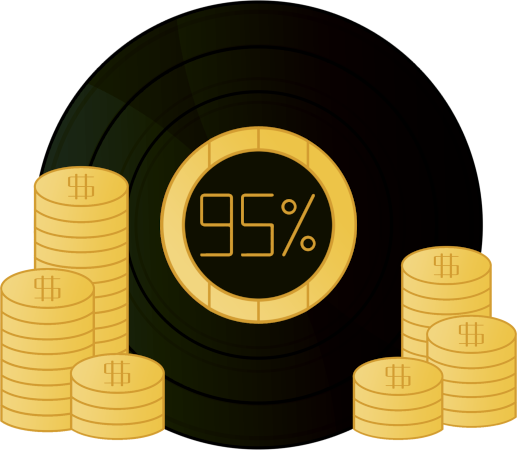
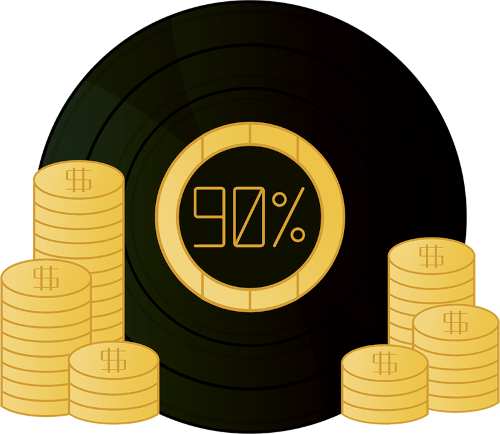
email popup

diff --git a/src/GetEmailModal.jsx b/src/GetEmailModal.jsx
@@ -1,0 +1,155 @@
+import React, { useEffect, useState } from "react";
+import axios from "axios";
+import styled from "styled-components";
+import { AccountProvider, useAccountConsumer } from "./contexts/Account";
+import { ReactComponent as XIcon } from "./assets/img/icons/x.svg";
+
+const GetEmailModal = () => {
+  const [open, setOpen] = useState(false);
+  const [email, setEmail] = useState("");
+  const [submitted, setSubmitted] = useState(false);
+  const [error, setError] = useState(false);
+  const { account, user } = useAccountConsumer();
+
+  useEffect(() => {
+    const storedEmail = localStorage.getItem('email');
+    if (!storedEmail) {
+      setOpen(true);
+    }
+    console.log("user", user, user?.email === "", storedEmail);
+    if (user && user?.email === "" && storedEmail) {
+      axios.post("/api/user/add-email", {email: storedEmail, address: user.address})
+      .then(() => {
+      })
+      .catch((err) => console.error(err));
+      //save email to user
+    }
+  }, [user, submitted])
+
+  const submitEmail = (e) => {
+    e.preventDefault()
+
+    let validEmail = /^(([^<>()\[\]\\.,;:\s@"]+(\.[^<>()\[\]\\.,;:\s@"]+)*)|(".+"))@((\[[0-9]{1,3}\.[0-9]{1,3}\.[0-9]{1,3}\.[0-9]{1,3}])|(([a-zA-Z\-0-9]+\.)+[a-zA-Z]{2,}))$/;
+    if (!validEmail.test(email)) {
+      setError(true);
+      return;
+    }
+    axios.post("/api/user/add-to-email-list", {email})
+    .then(() => {
+      setSubmitted(true);
+      localStorage.setItem('email', email);
+    })
+    .catch((err) => console.error(err));
+  }
+  
+  if (open) {
+    return (
+      <Modal>
+          <X onClick={() => setOpen(false)}/>
+        {!submitted && <Half>
+          Please add your email for an<br/>
+          opportunity for a <span style={{color: "#20A4FC", fontWeight: "600"}}>free NFT!</span>
+        </Half>}
+        <Half>
+          <form onSubmit={(e) => submitEmail(e)}>
+            {!submitted ? 
+          <Input
+            error={error}
+            name="email"
+            placeholder="email"
+            type="email"
+            onChange={(e) => setEmail(e.target.value)}
+          >
+          </Input>
+            : <Thanks>
+              Thank You!
+              </Thanks>
+          }
+          </form>
+        </Half>
+        {submitted && <Half>
+          We will be reaching out to<br/>
+          you <span style={{color: "#20A4FC", fontWeight: "600"}}>via email</span> soon.
+        </Half>}
+      </Modal>
+    );
+}
+  return null;
+}
+
+const Thanks = styled.div`
+  box-shadow: 0 3px 6px 0 rgba(0, 0, 0, 0.16);
+  background-image: linear-gradient(to right, #20a4fc, #fde404 35%, #68c12f 68%, #fa423e);
+  width: 254px;
+  height: 32px;
+  border-radius: 4px;
+  display: flex;
+  align-items: center;
+  justify-content: center;
+  color: black;
+  font-weight: 600;
+`
+
+const X = styled(XIcon)`
+  cursor: pointer;
+  width: 18px;
+  height: 18px;
+  & path {
+    fill: ${(props) => props.theme.color.white} !important;
+  }
+  position: absolute;
+  top: 0;
+  right: 0px;
+`;
+
+
+// const Exit = styled.div`
+// position: absolute;
+// top: 0;
+// right: 0;
+// width: 20px;
+// `
+
+const Input = styled.input`
+width: calc(100% - 8px);
+text-align: center;
+color: white;
+background-color: #131313;
+border: 1px solid ${props => props.error ? "red" : "transparent"} !important;
+height: 30px;
+font-size: 16px;
+border-radius: 4px;
+&:focus {
+outline: 1px solid ${props => props.error ? "transparent" : "white"} !important;
+
+}
+`
+
+const Half = styled.div`
+font-size: 16px;
+line-height: 22px;
+font-weight: 300;
+letter-spacing: .5px;
+`
+
+const Modal = styled.div`
+height: 86px;
+    width: 260px;
+display: flex;
+justify-content: space-between;
+flex-direction: column;
+position: fixed;
+text-align: center;
+/* height: 20px; */
+/* width: 200px; */
+padding: 16px;
+top: 80px;
+right: 40px;
+border: 1px solid  ${(props) => props.theme.color.boxBorder};
+background: ${props => props.theme.color.box};
+color: white;
+border-radius: 0 0 0 20px;
+z-index: 10000000;
+`
+
+export default GetEmailModal;

diff --git a/server/routes/user.router.js b/server/routes/user.router.js
@@ -2,6 +2,7 @@ const express = require("express");
 const router = express.Router();
 const multer = require("multer");
 const User = require("../schemas/User.schema");
+const EmailList = require("../schemas/EmailList.schema");
 const NftType = require("../schemas/NftType.schema");
 const Application = require("../schemas/Application.schema");
 const Redeem = require("../schemas/Redeem.schema");
@@ -63,6 +64,43 @@ router.post("/get-account", async (req, res) => {
     res.status(500).send("server error");
   }
 });
+
+router.post("/add-email", async (req, res) => {
+  try {
+    console.log("adding", req.body);
+    let user = await User.findOne({ address: req.body.address });
+    user.email = req.body.email;
+    await user.save();
+    res.status(200).send("success");
+    }catch (error) {
+      res.status(500).send("server error");
+    }
+
+  }
+)
+
+router.post("/add-to-email-list", async (req, res) => {
+  try {
+    let emailList = await EmailList.findOne();
+    if (!emailList) {
+      emailList = new EmailList({
+        emails: [],
+      });
+      await emailList.save();
+      console.log("success");
+      res.status(200).send("success");
+      return;
+    } else {
+      emailList.emails = [...emailList.emails, req.body.email];
+      emailList.save();
+      res.status(200).send("success");
+    }
+    }catch (error) {
+      res.status(500).send("server error");
+    }
+
+  }
+)
 
 router.post("/track-pageview", async (req, res) => {
   try {

diff --git a/src/views/Home/Components/Features.jsx b/src/views/Home/Components/Features.jsx
@@ -10,8 +10,6 @@ import carbon from "../../../assets/img/homepage_assets/homepage_carbon.png";
 import join from "../../../assets/img/homepage_assets/homepage_join.png";
 import airdrop from "../../../assets/img/homepage_assets/homepage_collect.png";
 import revenue from "../../../assets/img/homepage_assets/homepage_revenue.png";
-// import art from "../../../assets/img/homepage_assets/homepage_art.png"
-// import video from "../../../assets/img/homepage_assets/homepage_video.png"
 
 export const Features = ({ isLoaded, setIsLoaded }) => {
   useEffect(() => {
@@ -86,7 +84,7 @@ export const Features = ({ isLoaded, setIsLoaded }) => {
           <FeaturesHeader>Support Amazing Artists</FeaturesHeader>
           <FeaturesDescription>
             It’s no secret that traditional streaming services are not offering
-            fair compensation to artists. With us, musicians make 95% of their
+            fair compensation to artists. With us, musicians make 90% of their
             sales.
           </FeaturesDescription>
         </FeaturesTextContainer>

diff --git a/src/contexts/Account/Account.jsx b/src/contexts/Account/Account.jsx
@@ -40,6 +40,7 @@ export const AccountProvider = ({ children }) => {
   const [usdPerEth, setUsdPerEth] = useState(0);
   const [usdPerBnb, setUsdPerBnb] = useState(0);
   const [oneSecToLoadMetaMask, setOneSecToLoadMetaMask] = useState(false);
+  const [noEmail, setNoEmail] = useState(false);
 
   const fetchUsdPerEthandBsc = async () => {
     await axios
@@ -58,6 +59,10 @@ export const AccountProvider = ({ children }) => {
     await axios
       .post(`/api/user/get-account`, { address: account })
       .then((res) => {
+        console.log("HERE DA USER", res.data);
+        if (!res.data.email) {
+          setNoEmail(true);
+        }
         setUser(res.data);
         axios
           .post(`/api/gov/verify-admin`, { address: account })
@@ -132,6 +137,7 @@ export const AccountProvider = ({ children }) => {
         setCurrChainId,
         usdPerEth,
         usdPerBnb,
+        noEmail,
       }}
     >
       {/* {oneSecToLoadMetaMask && !currChainId && <NoChainModal />}

diff --git a/src/App.jsx b/src/App.jsx
@@ -32,6 +32,7 @@ import recordPlayer from "./assets/img/record_player.png";
 import recordPlayerSpin from "./assets/img/record_player_spin.png";
 import saQiBanner from "./assets/img/homepage_assets/saqi_banner.png";
 import saQiBannerMobile from "./assets/img/homepage_assets/saqi_banner_mobile.jpeg";
+import NoEmailModal from "./GetEmailModal";
 
 import isMobile from "./utils/isMobile";
 import theme from "./theme";
@@ -40,7 +41,7 @@ if (window.location.hostname !== "localhost") console.log = function () {};
 
 const Switches = () => {
   const location = useLocation();
-  const { account, user } = useAccountConsumer();
+  const { account, user, noEmail } = useAccountConsumer();
 
   useEffect(() => {
     axios
@@ -159,6 +160,7 @@ const App = () => {
       <StyledCanvas>
         <Router>
           <Switches />
+          <NoEmailModal/>
         </Router>
       </StyledCanvas>
     </Providers>

diff --git a/src/views/VINYL/Token/Components/Airdrops.jsx b/src/views/VINYL/Token/Components/Airdrops.jsx
@@ -9,8 +9,6 @@ import carbon from "../../../../assets/img/homepage_assets/homepage_carbon.png";
 
 import airdrop from "../../../../assets/img/homepage_assets/homepage_airdrop.png";
 import revenue from "../../../../assets/img/homepage_assets/homepage_revenue.png";
-// import art from "../../../../assets/img/homepage_assets/homepage_art.png"
-// import video from "../../../../assets/img/homepage_assets/homepage_video.png"
 
 const Airdrops = ({ isLoaded, setIsLoaded }) => {
   useEffect(() => {

diff --git a/src/views/Info/Info.jsx b/src/views/Info/Info.jsx
@@ -70,7 +70,7 @@ const Info = () => {
           <br />
           <span>
             NFT FM allows musicians to dictate artistically and financially the
-            terms on which they engage with their audience. 95% of sale revenue
+            terms on which they engage with their audience. 90% of sale revenue
             goes to the artist directly giving musicians much more of a chance
             to see the immediate results of their hard work.
           </span>

diff --git a/src/views/Home/Home.jsx b/src/views/Home/Home.jsx
@@ -33,7 +33,7 @@ const Listen = () => {
         <DemoImage />
         <StyledHeader>Are you an artist? Launch with us!</StyledHeader>
         <StyledAccountButton href="/register-artist">
-          Contact us!
+          Get Verified!
         </StyledAccountButton>
         <DescriptionLink to="/info">
           <DescriptionBox>

diff --git a/server/schemas/EmailList.schema.js b/server/schemas/EmailList.schema.js
@@ -1,0 +1,10 @@
+const mongoose = require('mongoose')
+const Schema = mongoose.Schema
+
+const EmailListSchema = new Schema({
+  emails: [{
+    type: String,
+  }],
+});
+
+module.exports = EmailList = mongoose.model('emailList', EmailListSchema)
